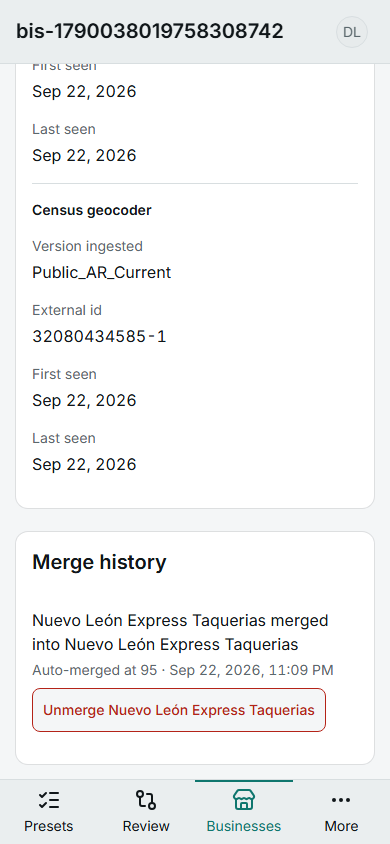
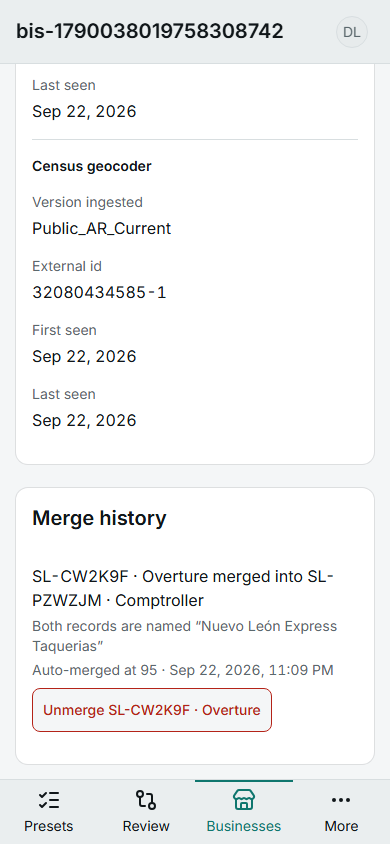
docs(03-22): screens approved with four fixes; after-shots and deferred items
- record danlo's approval and the four fixes (bd83587, f274413, 7b00b72, 3c89af4)
  with their red-then-green evidence and the built-app proof for fix 1
- re-shot only the affected screens (+ review-phone-light-SIMULATED-refusal-scrolled)
- attribution heading re-measured: 15.2:1 light / 12.9:1 dark; Closed badge 14/600
- defer: M25 script-form coverage by chance, CRLF function-restore trap, local org
  label, loser-page header ambiguity, 12/500 chain badges; log the fixed tie flake

Claude-Session: https://claude.ai/code/session_01NVzxjnJjxDPMCkAfT1fHde

Changed region(s): [[0.0615, 0.0616, 0.8615, 0.7701], [0.2769, 0.8318, 0.8, 0.8626]]

diff --git a/docs/measurements/03-gate-mutations.md b/docs/measurements/03-gate-mutations.md
@@ -195,8 +195,11 @@ row is one pair.
 | Muted text on the page background, the chip band's surface (`Score 94 of 100`) | `#5B686D` on `#F4F6F7` → **5.31:1** | `#93A1A5` on `#0E1416` → **6.97:1** | 14 / 400 |
 | `/businesses` "Comptroller · Overture" text | `#5B686D` on `#F4F6F7` → **5.31:1** | `#93A1A5` on `#0E1416` → **6.97:1** | 14 / 400 |
 | `/sources` dataset id (`jrea-zgmq`) | `#5B686D` on `#FFFFFF` → **5.76:1** | `#93A1A5` on `#161E21` → **6.35:1** | 14 / 400 |
-| `/sources` attribution heading + body (muted on `--muted`) | `#5B686D` on `#E7EBEC` → **4.80:1** | `#93A1A5` on `#1D272A` → **5.73:1** | 20/600 heading, 16/400 body |
-| **Closed badge**, detail header | `#7A271A` on `#FEE4E2` → **8.16:1** | `#F97066` on `#3A1210` → **5.92:1** | **12 / 500** |
+| `/sources` attribution heading + body (muted on `--muted`), **as first shot** | `#5B686D` on `#E7EBEC` → **4.80:1** | `#93A1A5` on `#1D272A` → **5.73:1** | 20/600 heading, 16/400 body |
+| `/sources` attribution **heading after fix 4** (foreground on `--muted`) | `#101619` on `#E7EBEC` → **15.2:1** | `#E7EDEE` on `#1D272A` → **12.9:1** | 20 / 600 |
+| `/sources` attribution body after fix 4 (unchanged, muted) | `#5B686D` on `#E7EBEC` → **4.80:1** | `#93A1A5` on `#1D272A` → **5.73:1** | 16 / 400 |
+| **Closed badge**, detail header, as first shot | `#7A271A` on `#FEE4E2` → **8.16:1** | `#F97066` on `#3A1210` → **5.92:1** | **12 / 500** |
+| **Closed badge after fix 4** (shared `ClosedBadge`, detail header) | `#7A271A` on `#FEE4E2` → **8.16:1** | `#F97066` on `#3A1210` → **5.92:1** | **14 / 600** |
 | Lead key (accent text) | `#0F766E` on `#FFFFFF` → **5.47:1** | `#2DD4BF` on `#161E21` → **9.08:1** | 16 / 600 |
 | Unmerge action (destructive outline) | `#B42318` on `#F4F6F7` → **6.06:1** | `#F97066` on `#1A2427` → **5.68:1** | 14 / 500 |
 
@@ -255,4 +258,56 @@ tap and Escape, and the touch-targets spec does not measure the ✕. UI-SPEC § 
    `org_3Jf2trxDQzIC3yX4sgZki3kE3ky`, a local-DB row from 2026-09-22, not the Clerk name "BIS".
    This is Phase 1 chrome and local data, not a Phase 3 screen.
 
-**Status: awaiting danlo's `screens approved` or named defects.**
+## danlo's answer: screens approved 2026-09-23 with four fixes applied
+
+danlo's reply, relayed by the orchestrator on 2026-09-23: **approve the screens, and fix all four
+of these before the phase closes.** Each fix has its own commit. Where the change was testable,
+its test was watched red first. The gates on the combined tree (`3c89af4`) passed: typecheck
+exit 0, lint exit 0, unit **298/298**, db **194/194**, build exit 0.
+
+| # | Defect | Fix | Commit | Watched red → green |
+|---|---|---|---|---|
+| 1 | A refusal Alert grew the fixed phone bar to 337 px, and 184 of card B's 251 px sat under it, out of scroll reach | `ThumbBar` (`src/components/review/thumb-bar.tsx`, client) measures the bar with a ResizeObserver and mirrors its height into an in-flow spacer. The guessed 137 px constant is now only the first-paint value. Rule 20 is untouched: `review-actions.test.tsx` stays 6/6 | `bd83587` | `tests/unit/thumb-bar.test.tsx` 3/3 red against a constant-spacer version (`expected null to be <div data-slot="card">`), then 3/3 green |
+| 2 | The shared Sheet's icon-only ✕ was 28×28 | `size-11` (44×44) in the **shared** `SheetContent`, `data-testid="sheet-close"`, sr-only name from `copy.ts` `SHEET_CLOSE_LABEL` ('Close'). The tablet nav title got `pr-14` so the larger button never covers it | `f274413` | `touch-targets.spec.ts`: the phone test now measures `sheet-close` in the More sheet, and a new tablet test (800×1024) measures it in the off-canvas nav. Both use exactly-one-visible plus the accessible name. On the built app at :3122: **red at `Received: 28`** (both), then 4/4 green |
+| 3 | The merge history read "Nuevo León Express Taquerias merged into Nuevo León Express Taquerias" | Each side is named `MERGE_SIDE(key, source)`: "SL-CW2K9F · Overture merged into SL-PZWZJM · Comptroller". A names line follows ("Both records are named “…”" when equal, otherwise "“a” into “b”"). The button ("Unmerge SL-CW2K9F · Overture"), the dialog title and the toast name the loser by key. `readBusinessDetail` returns each side's `primary_source`, and the route maps it through `SOURCE_TAG`. The new strings are in `copy.ts` | `7b00b72` | unit: `two same-name records are told apart by lead key and source, in the row, the button and the dialog` + 4 updated assertions, **5 red**, then 12/12. db: `merge history names each side by lead key and primary source`, **red with only the query reverted** (`winnerSource: undefined`), then 4/4 |
+| 4 | The detail-header Closed badge was 12/500; the attribution heading was muted | One shared `ClosedBadge` (`src/components/flags/closed-badge.tsx`, 14/600) replaces three copies (review card, `/businesses` list, detail header). The attribution heading is `text-foreground` | `3c89af4` | `closed-badge.test.tsx`: one class list at all three sites, **red** (the detail header lacked `text-sm`), then green. `sources-ledger.test.tsx` pins the heading class, **red** then green. **Painted values** (contrast table above): Closed 14px / 600, heading 15.2:1 light / 12.9:1 dark |
+
+**Fix 1, proven on the built app** (the simulated refusal, phone light, `innerHeight` 844 and
+the page `visible` asserted first). With the alert showing, the bar measured 337 px and the
+spacer 337 px. At rest both measured 137 px, so at rest the measured spacer equals the old
+constant: `review-phone-{light,dark}.png` re-shot **byte-identical** to the originals. After
+scrolling to the end, card B's bottom is at **427** and the bar's top at **443**: 16 px clear,
+the same clearance as with no refusal. The script asserts `cardBBottom <= barTop` and throws
+otherwise. Before the fix the same measurement had card B 184 px under the bar.
+
+**Fix 2, measured:** `sheet-close` is 44 × 44 at (338, 636), exactly one visible, named "Close",
+in both themes.
+
+**Fix 3, as rendered on the real merge:** "SL-CW2K9F · Overture merged into SL-PZWZJM ·
+Comptroller / Both records are named “Nuevo León Express Taquerias” / Auto-merged at 95 · Sep 22,
+2026, 11:09 PM / Unmerge SL-CW2K9F · Overture", identical at phone and desk in both themes.
+
+**After-shots** (the same build `3c89af4`, served on :3122 with the local-DB override, signed in
+through `@clerk/testing`, nothing pressed on real data). Afterwards local data was unchanged
+(7,975 pending, 1,077 merges, 91,872 businesses, last `decided_at` before the session), and the
+server was stopped by its own PID:
+
+- `review-phone-light-SIMULATED-refusal.png` and **`review-phone-light-SIMULATED-refusal-scrolled.png`** (new)
+- `review-phone-{light,dark}.png` (re-shot, byte-identical)
+- `more-sheet-phone-{light,dark}.png`
+- `business-detail-merge-history-{phone,desk}-{light,dark}.png`
+- `business-detail-closed-phone-{light,dark}.png`
+- `sources-desk-{light,dark}.png`
+
+The other screenshots are unchanged: no fix touches what they show.
+
+**Not run: `$PNPM test:e2e` against the deployed URL.** This plan may not touch production, and
+the e2e suite writes presets there. Nothing is pushed, so the deployed app lacks these fixes, and
+the new `sheet-close` assertions will fail against it until this branch deploys.
+`touch-targets.spec.ts` ran green against the local build of this tree. The full e2e run belongs
+to CI on the PR.
+
+**Still open from the observations above:** item 4 (the org label) is local data and Phase 1
+chrome, and is logged in `deferred-items.md`. The detail header's "{name} merged into {name}"
+line on a **loser's** page has the same ambiguity fix 3 closed in the history; it is logged
+there too.

diff --git a/.planning/phases/03-free-data-spine-entity-resolution/deferred-items.md b/.planning/phases/03-free-data-spine-entity-resolution/deferred-items.md
@@ -69,3 +69,76 @@ and the plan that found it.
 - **Fix:** a "delete preset" (or archive) server action with its own RLS test. Then turn the
   `afterAll` into a real teardown through it, and do a one-time human cleanup of the `e2e-%`
   rows (FK order: any runs, then versions, then searches).
+
+## From 03-22 (the phase gate, 2026-09-23)
+
+### M25, script form: the distinct-across-clusters check is covered only by chance
+
+- **Found:** mutation M25a (`docs/measurements/03-gate-mutations.md`, finding F7). `mergeCandidate` in
+  `scripts/resolve.ts` re-points both sides through `coalesce(merged_into_id, id)` before its
+  distinct check. With that re-point removed, the check builds its member set from the RAW ids,
+  so it misses a `distinct` decision that spans a cluster **only when** the second edge's raw
+  side is the loser rather than the root. That depends on the random uuid order `seedTriple`
+  produces.
+- **Measured:** `the pass is deterministic` failed **2 of 6** runs under M25a (green 5 of 7
+  counting the full-suite run). `a chain-flagged pair is never auto-merged` killed it **6/6**, so
+  the re-point is not dead code; the distinct-spanning-cluster behaviour just has no
+  deterministic test.
+- **Proposed test** (`tests/db/resolve-pass.test.ts`): seed the synthetic triple, then **order
+  the ids explicitly**. Re-assign `created_at` so the business whose id sorts first among the
+  edge pair is the LOSER of the first merge, so the second edge the pass takes has its raw left
+  side merged away. Seed `distinct` between the outer two, run the pass, and assert
+  `skipped_distinct: 1, merged: 1`. Watch it red under M25a every time (run it 5× under the
+  mutation, and demand 5 reds).
+
+### Restoring a database function from the migration file: strip `\r` and verify by md5
+
+- **Found:** M21's restore (F5). `drizzle/0024_merge_functions.sql` is CRLF in the working tree
+  (`core.autocrlf=true`), and the catalog was built from LF text. Restoring `app.undo_merge` from
+  the file's bytes gave a function with **105 CRs** (`md5 facc5537…`, 4692 chars), functionally
+  identical and green in every test, but **not the same object** as the capture
+  (`81cbfbff…`, 4587 chars).
+- **Rule for every future live-function mutation:** capture `md5(pg_get_functiondef(oid))` and
+  its length before mutating. Restore from the migration's statement **with `\r` stripped**, and
+  verify md5 **and** length against the capture. `$PNPM db:migrate` is not a restore: drizzle
+  skips a recorded migration and reports success (03-11).
+- **Status:** a process note. No code change.
+
+### Local `orgs.display_name` reads `bis-1790038019758308742`, not "BIS"
+
+- **Seen in:** every 03-22 screenshot. The phone top bar and the desk sidebar print the org label.
+- **Cause:** the LOCAL `siteless_test` row for `org_3Jf2trxDQzIC3yX4sgZki3kE3ky` (created
+  2026-09-22) has `display_name = name_internal = 'bis-1790038019758308742'`, while the Clerk
+  org is named "BIS". This is local data and Phase 1 chrome (`ensureOrg` / the shell's
+  `orgLabel`), not a Phase 3 screen.
+- **Follow-up:** check whether `ensureOrg` writes the Clerk org's **name** or its generated
+  slug into `display_name` on first sight. If it writes the slug, production shows the same.
+  Otherwise, one `update` of the local row.
+
+### Detail header: "{name} merged into {name}" on a loser's page
+
+- **Found alongside** 03-22 fix 3 (the merge history). `detail-header.tsx`'s
+  `business-merged-into` line uses `MERGE_ROW(displayName, mergedInto.displayName)`. On a
+  merged-away record whose winner carries the same display name (the common case after
+  survivorship), it reads "X merged into X", the ambiguity fix 3 removed from the history.
+- **Fix:** carry the winner's lead key on `mergedInto` (`merged_into_key` in
+  `readBusinessDetail`) and render `MERGE_ROW(MERGE_SIDE(ownKey, ownSource), MERGE_SIDE(...))`,
+  with a render test using two same-name records, as fix 3 did.
+
+### Header badges other than Closed still render at the Badge default 12/500
+
+- **Seen in:** 03-22 fix 4. The shared `ClosedBadge` now renders at 14/600 everywhere. The
+  detail header's `Chain` and `Merged away` badges (and the `/businesses` "Merged away" badge)
+  still use the Badge default 12px/500, below the UI-SPEC Label 14 while the review card's chain
+  badge is 14/600.
+- **Fix:** the same treatment, one shared flag-badge class or component, pinned by the
+  `closed-badge.test.tsx` pattern.
+
+### Fixed during 03-22 (recorded for the log): the review-actions `created_at` tie
+
+- **Done in `f8cce1a`.** `a recorded merge names the true winner and loser for the toast` failed
+  about half the time. `seedComptrollerSide` back-dates the Comptroller side one day, and the
+  test back-dated the Overture side to `now() - 1 day`: the same instant inside one transaction.
+  So the winner rule fell through to the smaller random uuid. The fix back-dates the Overture
+  side two days. It went 6/6 green in isolation and green in every full DB run since (193, then
+  194 tests).
